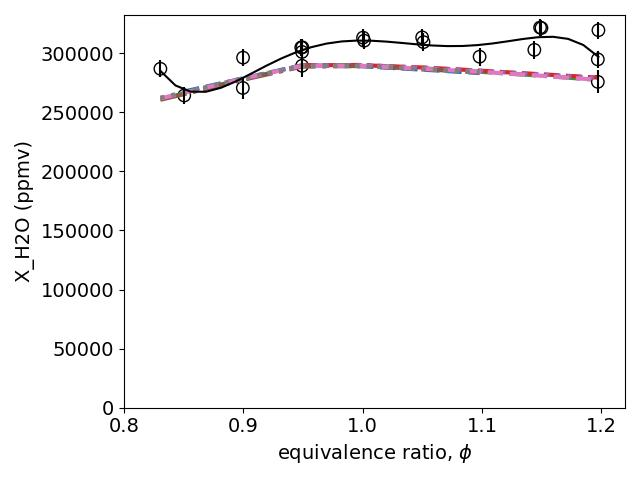
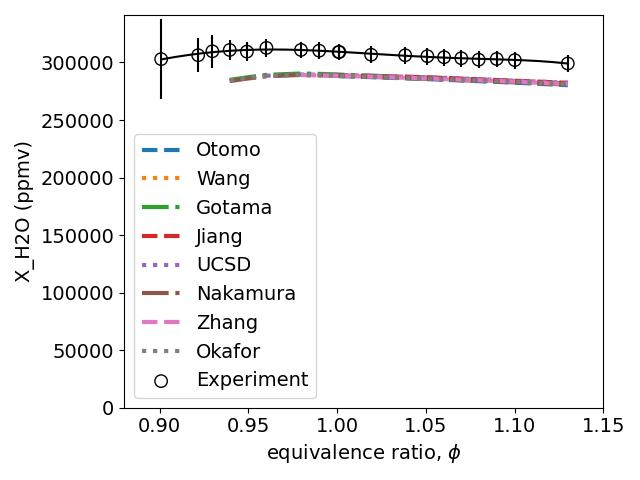
adding functionality for plots

diff --git a/src/plotter/numerical_vs_exp.py b/src/plotter/numerical_vs_exp.py
@@ -34,7 +34,7 @@ def plotter(numerical_folder: str, exp_results: str, col:str, exp_multiplier:flo
         plt.plot(df["phi"], df[col] * num_mulitplier, linestyle=l, linewidth=3, label=legend)
         plt.xlabel(r"equivalence ratio, $\phi$", fontsize=TEXT_SIZE)
         plt.ylabel(f"{y_label}", fontsize=TEXT_SIZE)
-    coefficients_y = np.polyfit(exp_df["phi"], exp_df[col], 5)
+    coefficients_y = np.polyfit(exp_df["phi"], exp_df[col], 6)
     trend_y = np.polyval(coefficients_y, (np.linspace(exp_df['phi'].min(), exp_df['phi'].max(), 30, endpoint=True))
 )
     plt.plot(
@@ -46,11 +46,11 @@ def plotter(numerical_folder: str, exp_results: str, col:str, exp_multiplier:flo
         label="Experiment")
     plt.errorbar(exp_df["phi"], exp_df[col]*exp_multiplier, yerr=exp_df[f"{col} Er"]*exp_multiplier, linestyle = '', color="black", fmt="")
     plt.tick_params(axis="both", which="major", labelsize=TEXT_SIZE)
-    plt.legend(fontsize=TEXT_SIZE)
+    # plt.legend(fontsize=TEXT_SIZE)
     plt.ylim(0)
-    plt.xlim(0.88, 1.15)
+    plt.xlim(0.58, 1.35)
     plt.tight_layout()
-    plt.savefig(f"{output_dir}/graphs/0%/{col}.jpg")
+    plt.savefig(f"{output_dir}/graphs/20%/{col}.jpg")
     plt.show()
     plt.switch_backend('Agg')
 

diff --git a/src/main.py b/src/main.py
@@ -17,7 +17,7 @@ def main():
     # run_flame(f"{mech_path}/mei.cti", f"{input_dir}/CH4_NH3/20%_data.csv", flame_type = "stagnation")
 
     # plotting example:
-    plotter("1000grid/stagnation_H2_NH3/0%", 'stagnation/NH3_H2/0%_data_full.csv', 'NO2', 1, "X_NO (ppmv)", 1000000)
+    plotter("1000grid/stagnation_H2_NH3/20%", 'stagnation/NH3_H2/20%_data_full.csv', 'H2O', 1, "X_H2O (ppmv)", 1000000)
 
     # error calculation:
     # error_object = ErrorCalculator("1000grid/stagnation_H2_NH3/30%", 'stagnation/NH3_H2/30%_data_full.csv', "stagnation")
